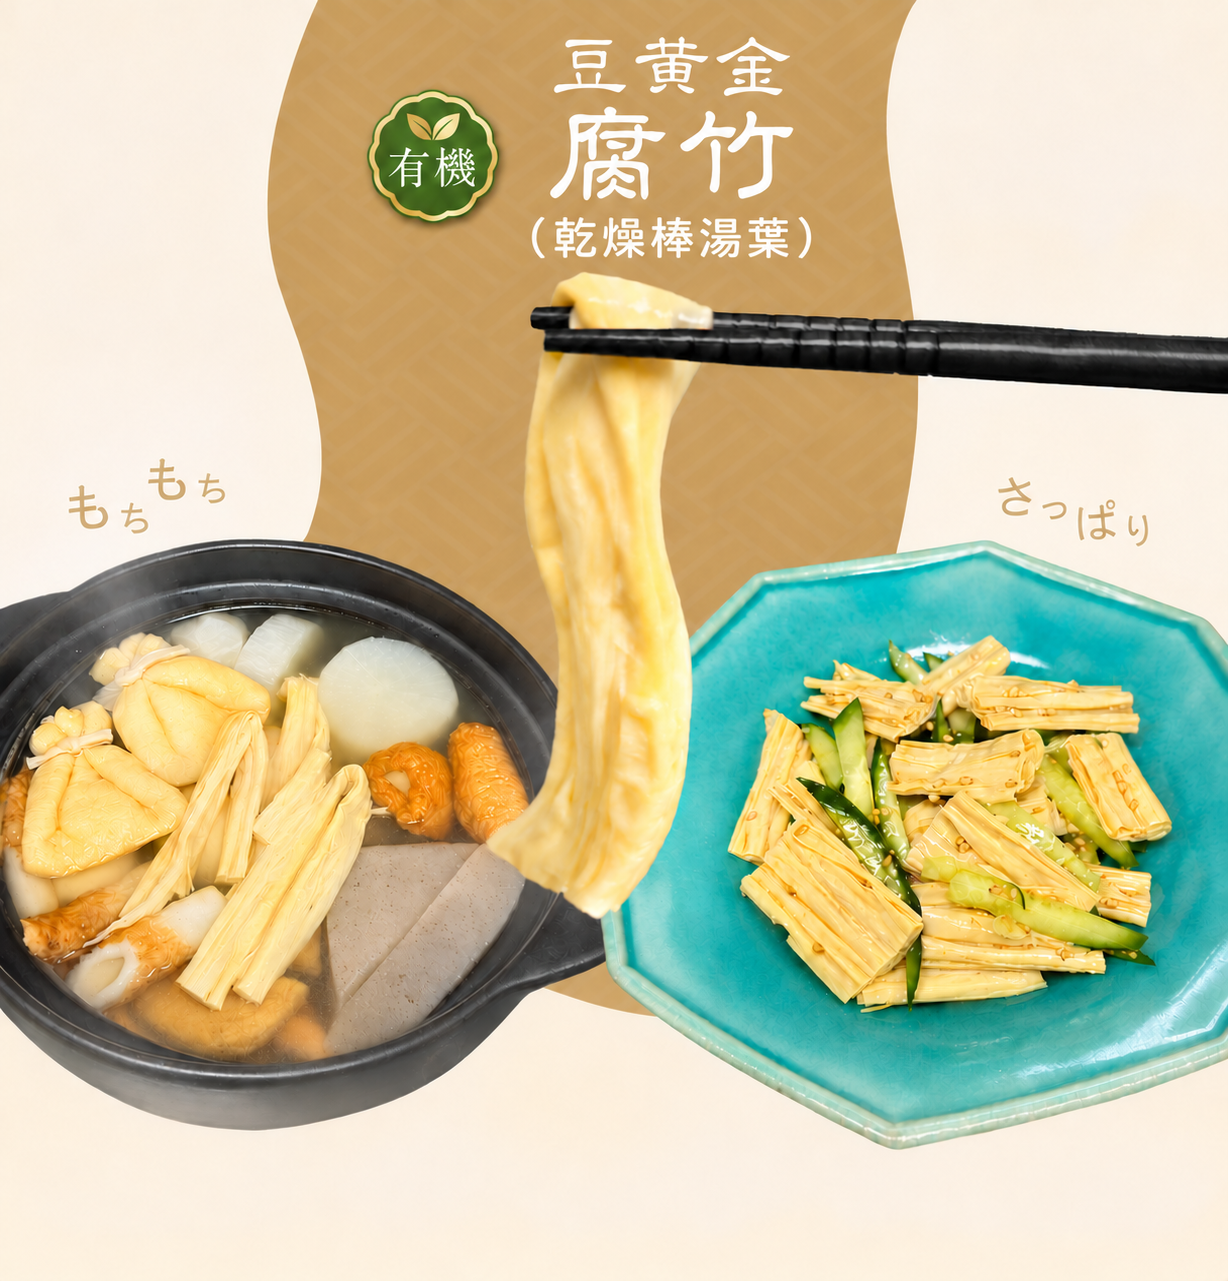
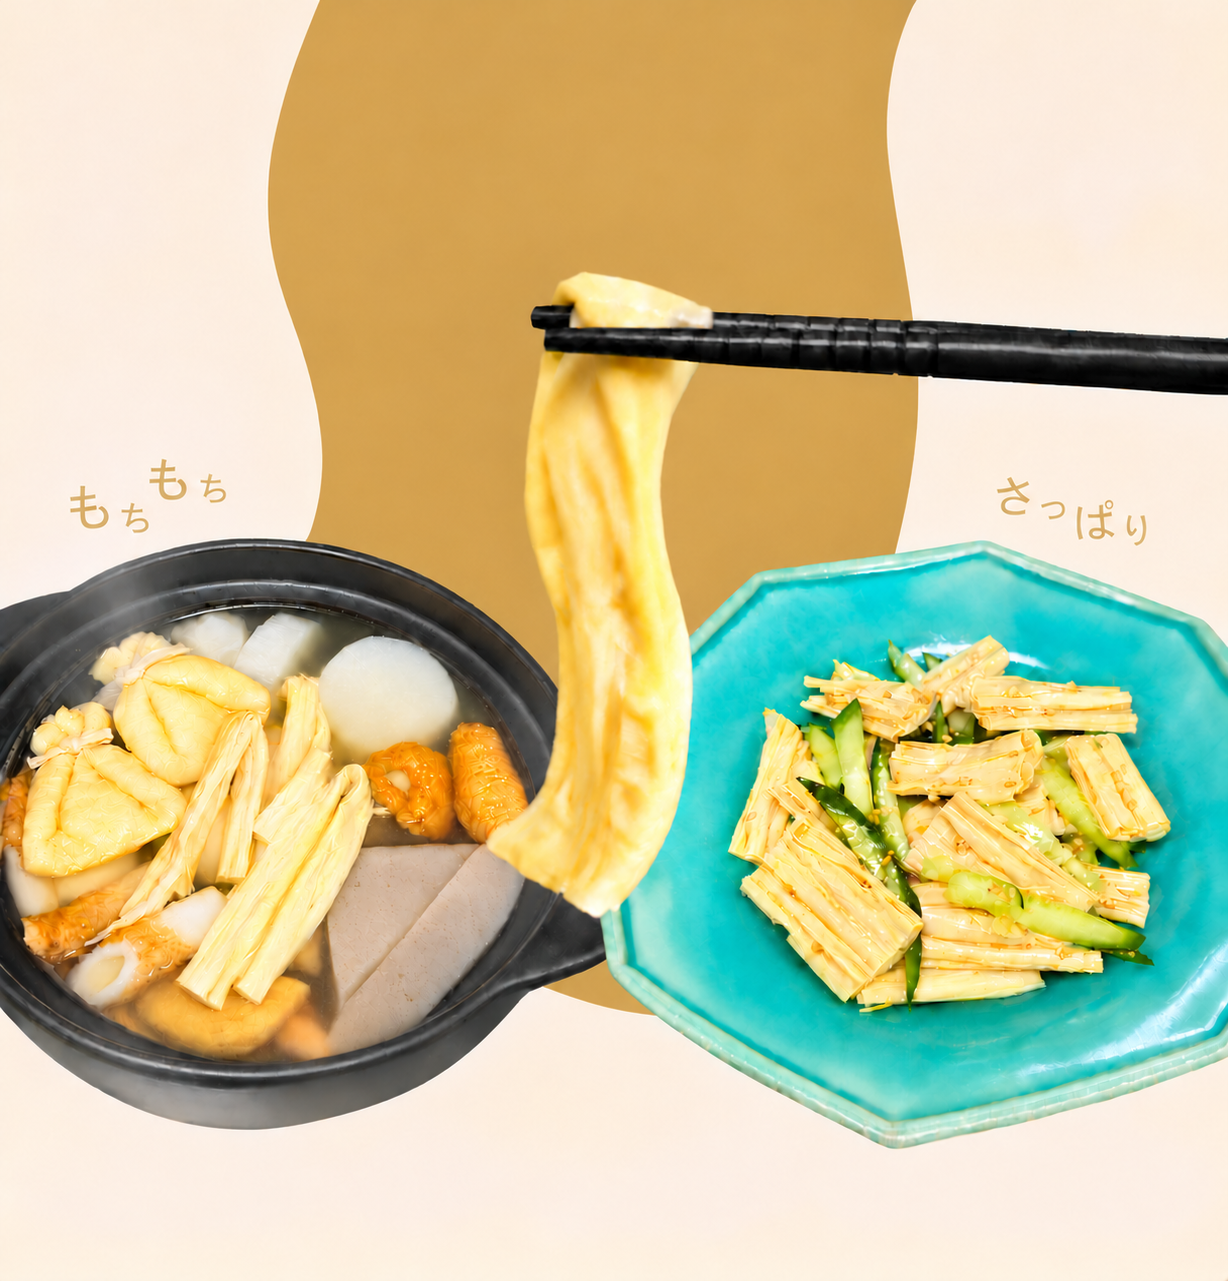
Add files via upload

diff --git a/content/dhj/index.html b/content/dhj/index.html
@@ -19,7 +19,16 @@ Explore the basics and four video recipes
 to bring something new to your table." class="dhj-lead">有機揚げ湯葉ロールと有機腐竹（乾燥棒湯葉）。
 いつものお料理に、新しいおいしさを。
 基本の使い方と、4つの動画レシピをご紹介します。</p>
-<a class="primary-link" href="#recipes"><span data-dhj-ja="動画レシピを見る" data-dhj-en="Explore video recipes" >動画レシピを見る</span><span aria-hidden="true">↓</span></a></div><div class="dhj-hero-art"><img src="./img/organic-yuba-roll-hero.png" width="1228" height="1281" alt="豆黄金 湯葉ロールのおでんとキムチ鍋"><img src="./img/organic-fuzhu-hero.png" width="1228" height="1281" alt="豆黄金 有機腐竹のおでんと中華和え"></div></section>
+<a class="primary-link" href="#recipes"><span data-dhj-ja="動画レシピを見る" data-dhj-en="Explore video recipes" >動画レシピを見る</span><span aria-hidden="true">↓</span></a></div><div class="dhj-hero-art">
+  <figure class="dhj-hero-panel">
+    <img src="./img/organic-yuba-roll-hero.png" width="1121" height="1403" alt="湯葉ロールのおでんとキムチ鍋">
+    <figcaption lang="ja"><span>豆黄金</span><strong>揚げ湯葉ロール</strong></figcaption>
+  </figure>
+  <figure class="dhj-hero-panel">
+    <img src="./img/organic-fuzhu-hero.png" width="1228" height="1281" alt="腐竹のおでんと中華和え">
+    <figcaption lang="ja"><span>豆黄金</span><strong>腐竹<small>（乾燥棒湯葉）</small></strong></figcaption>
+  </figure>
+</div></section>
 <nav class="dhj-wrap dhj-jump" aria-label="ページ内メニュー"><a href="#products"><span class="dhj-number">01</span><span data-dhj-ja="商品情報" data-dhj-en="Product details" >商品情報</span><span aria-hidden="true">↘</span></a><a href="#about"><span class="dhj-number">02</span><span data-dhj-ja="豆黄金について" data-dhj-en="About Dou Huang Jin" >豆黄金について</span><span aria-hidden="true">↘</span></a><a href="#preparation"><span class="dhj-number">03</span><span data-dhj-ja="基本の使い方" data-dhj-en="Preparation" >基本の使い方</span><span aria-hidden="true">↘</span></a><a href="#recipes"><span class="dhj-number">04</span><span data-dhj-ja="動画レシピ" data-dhj-en="Video recipes" >動画レシピ</span><span aria-hidden="true">↘</span></a></nav>
 <section id="products" class="dhj-spec-band"><div class="dhj-wrap dhj-section"><div class="dhj-heading"><p class="eyebrow">PRODUCT INFORMATION</p><h2 data-dhj-ja="商品情報" data-dhj-en="Product information" >商品情報</h2></div><div class="dhj-spec-grid">
 <article class="dhj-spec-card"><h3 data-dhj-ja="豆黄金 有機揚げ湯葉ロール" data-dhj-en="Dou Huang Jin organic fried yuba rolls" >豆黄金 有機揚げ湯葉ロール</h3><dl><div><dt data-dhj-ja="内容量" data-dhj-en="Net weight" >内容量</dt><dd data-dhj-ja="120g" data-dhj-en="120g" >120g</dd></div><div><dt data-dhj-ja="アレルゲン" data-dhj-en="Allergen" >アレルゲン</dt><dd data-dhj-ja="大豆" data-dhj-en="Soybeans" >大豆</dd></div><div><dt data-dhj-ja="保存方法" data-dhj-en="Storage" >保存方法</dt><dd data-dhj-ja="直射日光・高温多湿を避けて保存してください。" data-dhj-en="Store away from direct sunlight, heat and humidity." >直射日光・高温多湿を避けて保存してください。</dd></div></dl></article>

diff --git a/content/dhj/dhj.css b/content/dhj/dhj.css
@@ -14,8 +14,6 @@
 .dhj-hero h1 { font-size: clamp(34px, 3.7vw, 52px); line-height: 1.45; letter-spacing: -.04em; white-space: pre-line; margin-bottom: 24px; }
 .dhj-lead { white-space: pre-line; color: var(--ink-soft); line-height: 2; font-size: 16px; margin-bottom: 30px; }
 .dhj-hero-art { display: grid; grid-template-columns: 1fr 1fr; align-items: center; gap: 14px; padding: 25px 0; }
-.dhj-hero-art img { width: 100%; height: auto; border-radius: 24px; box-shadow: var(--shadow-soft); }
-.dhj-hero-art img:last-child { margin-top: 86px; }
 .dhj-jump { display: grid; grid-template-columns: repeat(4,1fr); border-block: 1px solid var(--line); }
 .dhj-jump a { display: flex; align-items: center; gap: 14px; padding: 25px 18px; text-decoration: none; font-size: 14px; font-weight: 700; }
 .dhj-jump a+a { border-left: 1px solid var(--line); }
@@ -93,8 +91,6 @@ html[lang="en"] .dhj-language-note { display: block; }
  .dhj-brand-name { font-size: 18px; }
  .dhj-lead { font-size: 14px; }
  .dhj-hero-art { gap: 12px; padding: 0; }
- .dhj-hero-art img { border-radius: 18px; }
- .dhj-hero-art img:last-child { margin-top: 36px; }
  .dhj-jump { grid-template-columns: 1fr 1fr; }
  .dhj-jump a { padding: 18px 10px; font-size: 12px; }
  .dhj-jump a:nth-child(3) { border-left: 0; }
@@ -114,3 +110,11 @@ html[lang="en"] .dhj-language-note { display: block; }
  .dhj-page section[id],.dhj-page article[id] { scroll-margin-top: 112px; }
 }
 @media(prefers-reduced-motion:reduce) { html { scroll-behavior: auto; } }
+
+.dhj-hero-panel { position: relative; container-type: inline-size; margin: 0; min-width: 0; aspect-ratio: 4 / 5; overflow: hidden; border-radius: 24px; box-shadow: var(--shadow-soft); }
+.dhj-hero-panel img { width: 100%; height: 100%; object-fit: cover; object-position: center top; }
+.dhj-hero-panel figcaption { position: absolute; inset: 4% 0 auto; text-align: center; color: #fffaf0; font-family: "Yu Mincho", "Hiragino Mincho ProN", "Noto Serif CJK JP", serif; font-weight: 700; line-height: 1.2; text-shadow: 0 1px 3px #58391b80; }
+.dhj-hero-panel figcaption span, .dhj-hero-panel figcaption strong { display: block; font-size: 6cqi; font-weight: inherit; }
+.dhj-hero-panel figcaption strong { margin-top: 2cqi; white-space: nowrap; }
+.dhj-hero-panel figcaption small { font-size: 4cqi; }
+@media (max-width: 700px) { .dhj-hero-panel { border-radius: 18px; } }
